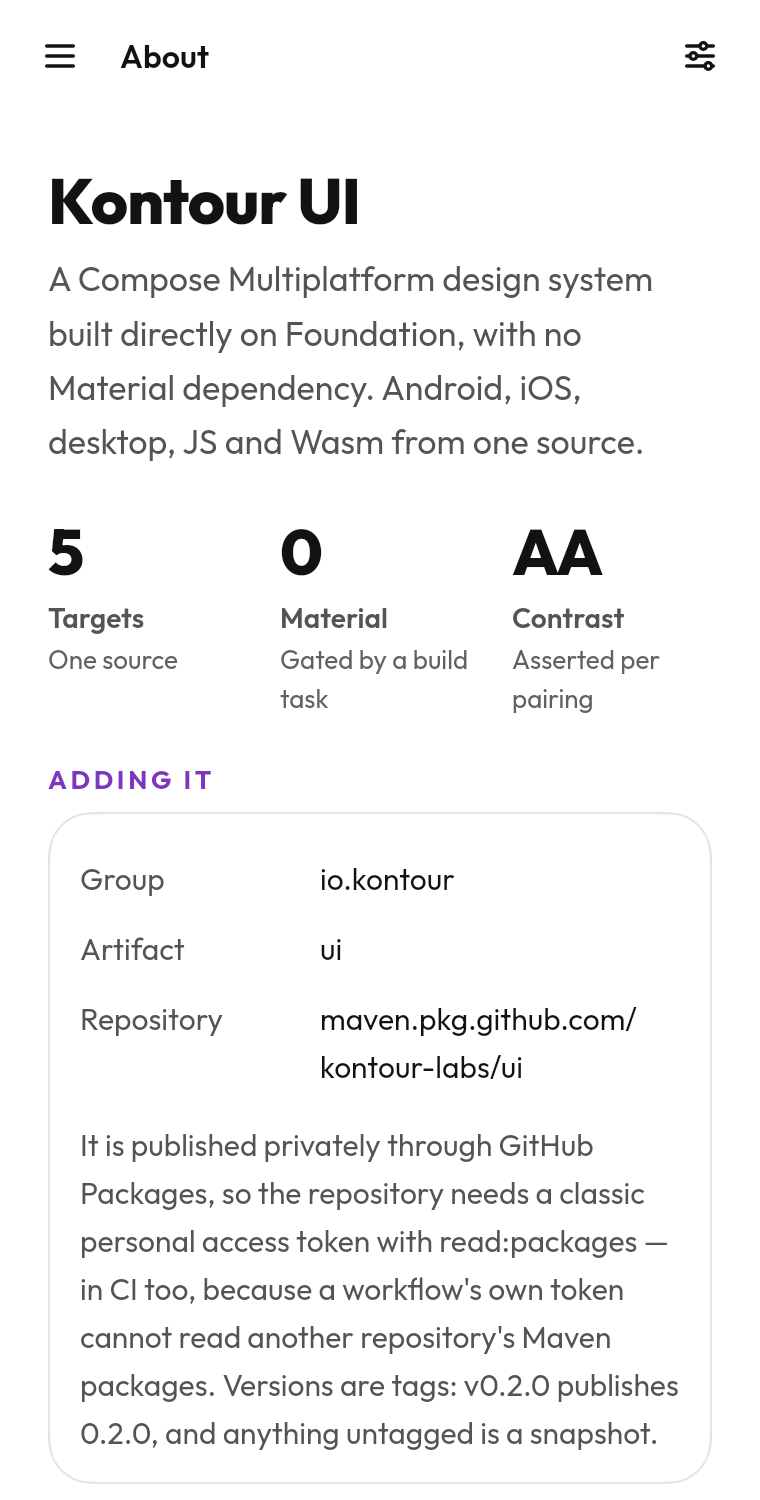
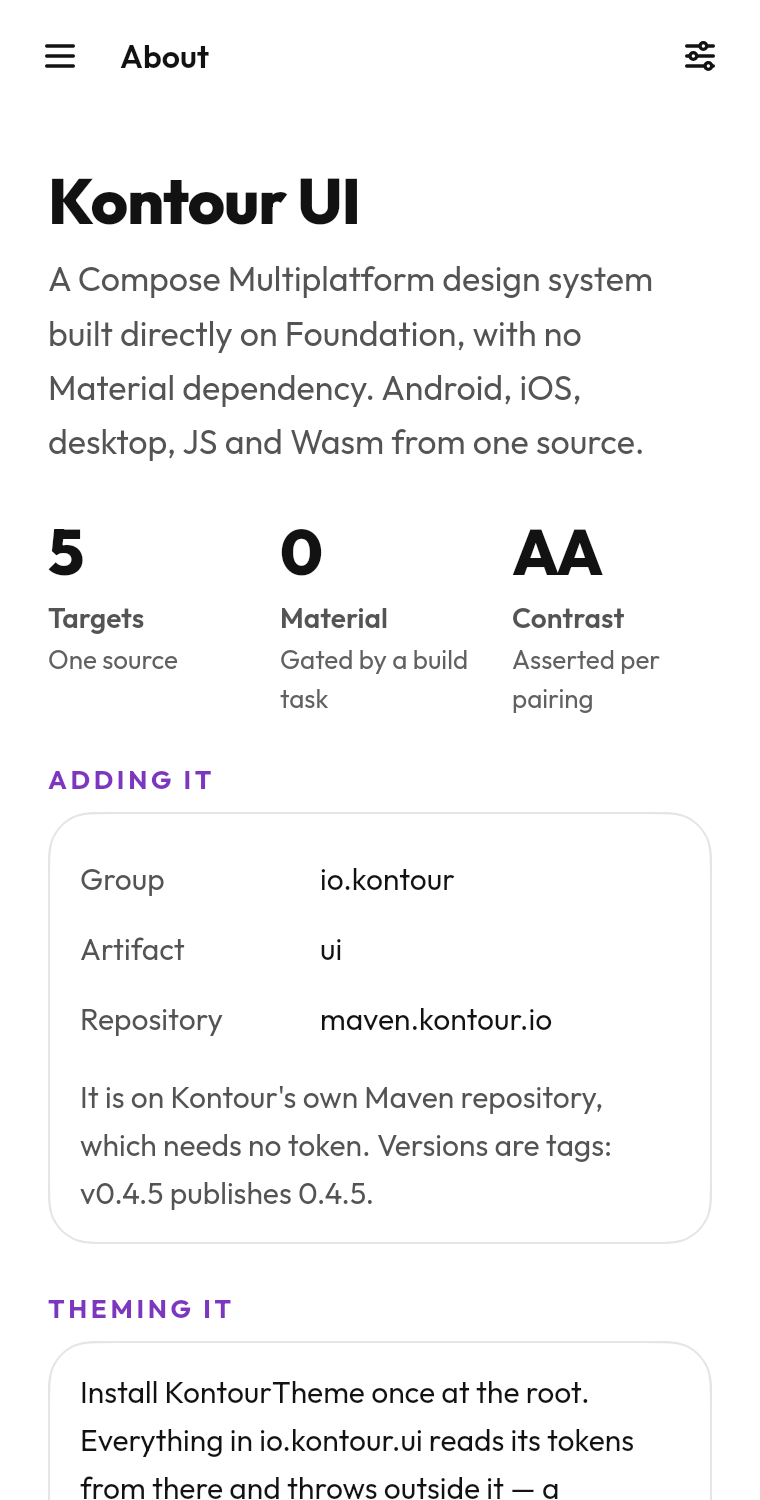
Fix the full test run: a sample's parameter, the catalog goldens, the sweep's cost
- patterns.md: the library's Text takes `colour`, not `color`, and
  checkKdocSamples reads the "not this" examples too.
- The catalog's own About goldens, large and compact, re-recorded for the
  maven.kontour.io text; pixel-identical to what CI drew.
- SemanticsActionSweepTest sweeps each demo on a composition of its own.
  ActivityCalendar's per-day custom actions (369 in its demo) each settled
  the whole date-and-time family, about sixteen minutes against the
  five-minute cap; alone they settle in a minute and a half, and the
  family takes 107 s.

Claude-Session: https://claude.ai/code/session_014eC4ms1jT3GyHJwjrSduaP

Changed region(s): [[0.0605, 0.6747, 0.8776, 1.0], [0.9079, 0.8893, 0.9382, 0.92], [0.9079, 0.7973, 0.9382, 0.828]]

diff --git a/ui-catalog/src/jvmTest/kotlin/io/kontour/ui/catalog/SemanticsActionSweepTest.kt b/ui-catalog/src/jvmTest/kotlin/io/kontour/ui/catalog/SemanticsActionSweepTest.kt
@@ -1,6 +1,5 @@
 package io.kontour.ui.catalog
 
-import androidx.compose.foundation.layout.Column
 import androidx.compose.foundation.layout.fillMaxSize
 import androidx.compose.runtime.Composable
 import androidx.compose.runtime.CompositionLocalProvider
@@ -59,22 +58,25 @@ import org.junit.experimental.categories.Category
  * re-render-per-suspect; the value here is the execution, because these paths
  * are otherwise never executed at all.
  *
- * ### The whole surface, and how small it is
+ * ### The surface, and what it costs
  *
- * The library declares an action beyond `onClick` in exactly six places:
+ * When this was written the library declared an action beyond `onClick` in six
+ * places — `Slider`, `RangeSlider` and `PaneScaffold`'s `setProgress`, and
+ * `Carousel`'s, `SwipeActions`' and `Reorderable`'s custom actions — and most
+ * pages swept nothing. It has grown since: the pickers' wheels, the event
+ * calendar's chips, menus, sheets and dialogs all publish them now. The
+ * per-page floors are set from what is actually there, not from that list.
  *
- * | where | action |
- * |---|---|
- * | `Slider`, `RangeSlider` | `setProgress` |
- * | `PaneScaffold` | `setProgress` |
- * | `Carousel` | `customActions` — previous, next |
- * | `SwipeActions` | `customActions` — one per action |
- * | `Reorderable` | `customActions` — move up, move down |
- *
- * So six of the eleven showcases below sweep nothing, and that is the right
- * answer rather than a hole in the walk: it was checked against the source
- * after the first run reported zero on most pages. The per-page floors are set
- * from what is actually there.
+ * **Each demo is swept on a composition of its own**, rather than its whole
+ * family in one `Column`. An action is followed by thirty frames, and a frame
+ * draws whatever is composed, so a family swept together costs every action
+ * times every demo's frame. That stayed cheap while each page had a handful of
+ * actions, and stopped in 0.4.5: `ActivityCalendar` gives each week a custom
+ * action per day, so a screen reader can pick a day out of the week it is on,
+ * which is 369 of them in its demo, and settling the whole date-and-time page
+ * after each one took about sixteen minutes against a five-minute cap. Alone,
+ * the same 369 settle in a minute and a half. Every action is still performed;
+ * none of them could reach another demo anyway.
  *
  * Text editing is deliberately out. `TextField` publishes `setText`,
  * `setSelection` and the clipboard actions, but it publishes them through
@@ -122,19 +124,18 @@ class SemanticsActionSweepTest {
 
     private fun sweepFamily(name: String, expected: Int) {
         val family = demoFamilies.single { it.name == name }
-        sweep(name, expected) {
-            Column { family.demos.forEach { DemoContentForTest(it, emptyMap()) } }
-        }
+        // One composition per demo: see "The surface, and what it costs".
+        sweep(name, expected, family.demos.map { demo -> @Composable { DemoContentForTest(demo, emptyMap()) } })
     }
 
     /** One action to perform, and enough about it to name it in a failure. */
     private class Reachable(val nodeId: Int, val what: String, val perform: (SemanticsNode) -> Unit)
 
-    private fun sweep(showcase: String, expected: Int, content: @Composable () -> Unit) {
+    private fun sweep(showcase: String, expected: Int, contents: List<@Composable () -> Unit>) {
         val failures = mutableListOf<String>()
         var performed = 0
 
-        runDesktopComposeUiTest(width = Canvas, height = Canvas) {
+        for (content in contents) runDesktopComposeUiTest(width = Canvas, height = Canvas) {
             // Hand-driven for the same reason `EverythingRespondsTest` is: the
             // overlays page never stops asking for frames, and an auto-advancing
             // clock chases it forever.

diff --git a/ui-docs/content/patterns.md b/ui-docs/content/patterns.md
@@ -189,7 +189,7 @@ the list is at its top.
 ```kotlin
 // Not this
 Column(Modifier.padding(16.dp), verticalArrangement = Arrangement.spacedBy(12.dp)) {
-    Text("Departures", fontSize = 20.sp, color = Color(0xFF1B1B1F))
+    Text("Departures", fontSize = 20.sp, colour = Color(0xFF1B1B1F))
 }
 
 // This
